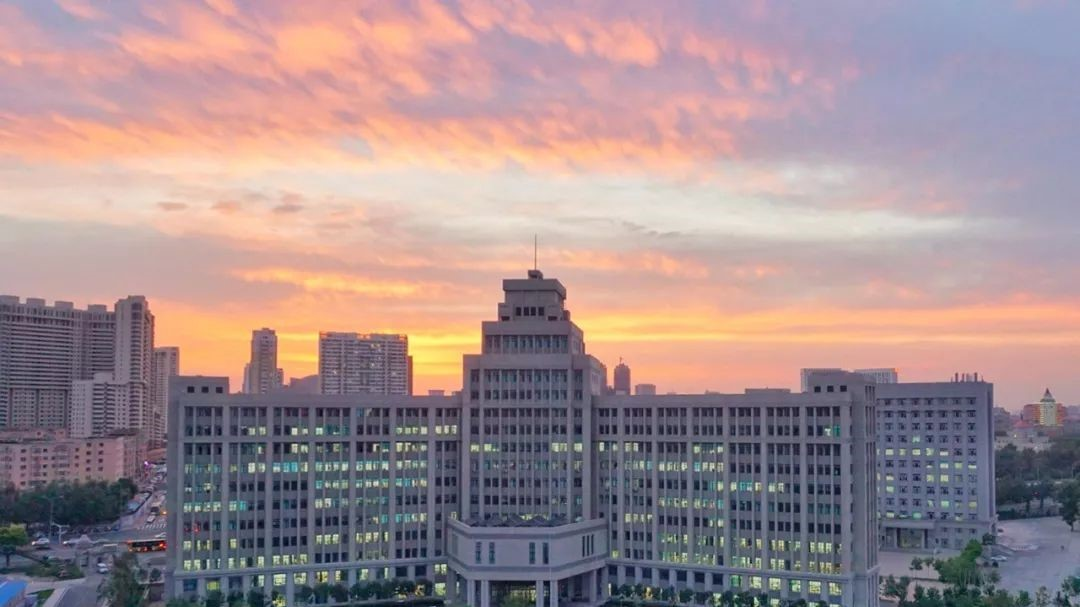
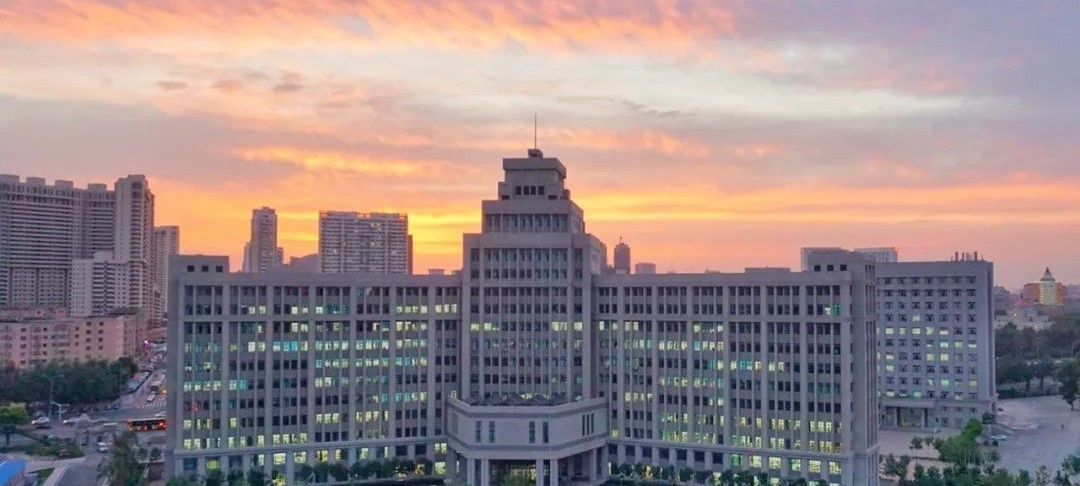
Perfect the design of the carousel chart

diff --git a/src/main/webapp/resources/css/header.css b/src/main/webapp/resources/css/header.css
@@ -133,15 +133,21 @@ body {
 }
 
 /*轮播图样式*/
+.carousel-item {
+    width: 100vw;
+    height: 100vh;
+    overflow: hidden;
+}
+
 .carousel-inner img {
     width: 100%;
-    height: 100%;
 }
 
 /*指示符样式*/
 .carousel-indicators {
     position: absolute;
-    bottom: 200px;
+    bottom: 100px;
+    left: 30px;
 }
 
 .contentContainer {
@@ -149,18 +155,4 @@ body {
     display: flex;
     justify-content: center;
     /*flex-direction: column;*/
-}
-/*图像新闻*/
-.img-news-container {
-    align-content: center;
-    background: red;
-    width: 1200px;
-    height: 500px;
-    position: absolute;
-    top: -100px;
-}
-
-/*文字新闻*/
-.word-news-container {
-    height: 1000px;
 }
